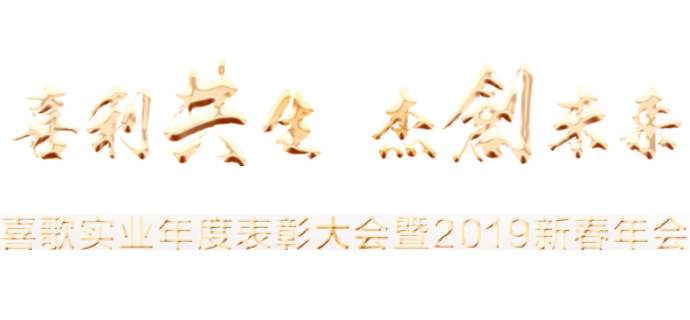
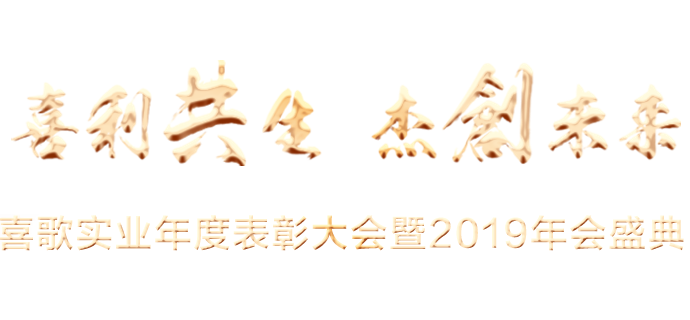
style:更换签到页面标题图片

Changed region(s): [[0.0, 0.6562, 1.0, 0.7812]]

diff --git a/src/checkin/view/checkinpage/checksub.js b/src/checkin/view/checkinpage/checksub.js
@@ -2,17 +2,9 @@ import React from 'react';
 import axios from 'axios';
 import { Toast } from 'antd-mobile';
 import './checksub.less';
-import logo from 'public/checkin/logo.png';
-import xjimg from 'public/checkin/xj.png';
 import submit from 'public/checkin/submit.png';
-import gxline from 'public/checkin/gxline.png';
-import triangle from 'public/checkin/triangle.png';
 import smline from 'public/checkin/smline.png';
-import firstword from 'public/checkin/firstword.png';
-import secondword from 'public/checkin/secondword.png';
-import threeword from 'public/checkin/threeword.png';
 import formimg from 'public/checkin/form.png';
-import black from 'public/checkin/black.png';
 
 export default class CheckSub extends React.PureComponent {
   constructor(props) {
@@ -168,15 +160,12 @@ export default class CheckSub extends React.PureComponent {
         <div className='lookback' style={{ width: formW }}>
           <div className='container'>
             <div className='first' style={firstanimate}></div>
-            <img src={black} />
           </div>
           <div className='container'>
             <div className='second' style={secondanimate}></div>
-            <img src={black}></img>
           </div>
           <div className='container'>
             <div className='three' style={threeanimate}></div>
-            <img src={black}></img>
           </div>
         </div>
         <div className='form' style={{ width: formW, fontSize: `${fontSize}px`, ...formnimate }}>

diff --git a/src/checkin/view/checkinpage/checkform.js b/src/checkin/view/checkinpage/checkform.js
@@ -1,10 +1,8 @@
 import React from 'react';
-import CheckSub from './checksub';
 import './checkform.less';
 import logo from 'public/checkin/logo.png';
 import xj from 'public/checkin/xj.png';
 import checkin from 'public/checkin/checkin.png';
-import gxline from 'public/checkin/gxline.png';
 import triangle from 'public/checkin/triangle.png';
 import smline from 'public/checkin/smline.png';
 

diff --git a/src/checkin/view/checkinpage/checkform.less b/src/checkin/view/checkinpage/checkform.less
@@ -59,15 +59,6 @@
       }
     } 
   }
-  .gxline{
-    height:4.92%;
-    &>img{
-      margin: 0 auto;
-      display: block;
-      height: 100%;
-    }
-  }
-
 }
 @keyframes linemove
 {
@@ -75,9 +66,3 @@
   50% {top:100%}
   100% {top:0}
 }
-// @keyframes linemove
-// {
-//   0% {transform: translateY(0)}
-//   50% {transform: translateY(-100%)}
-//   100% {transform: translateY(0)}
-// }
